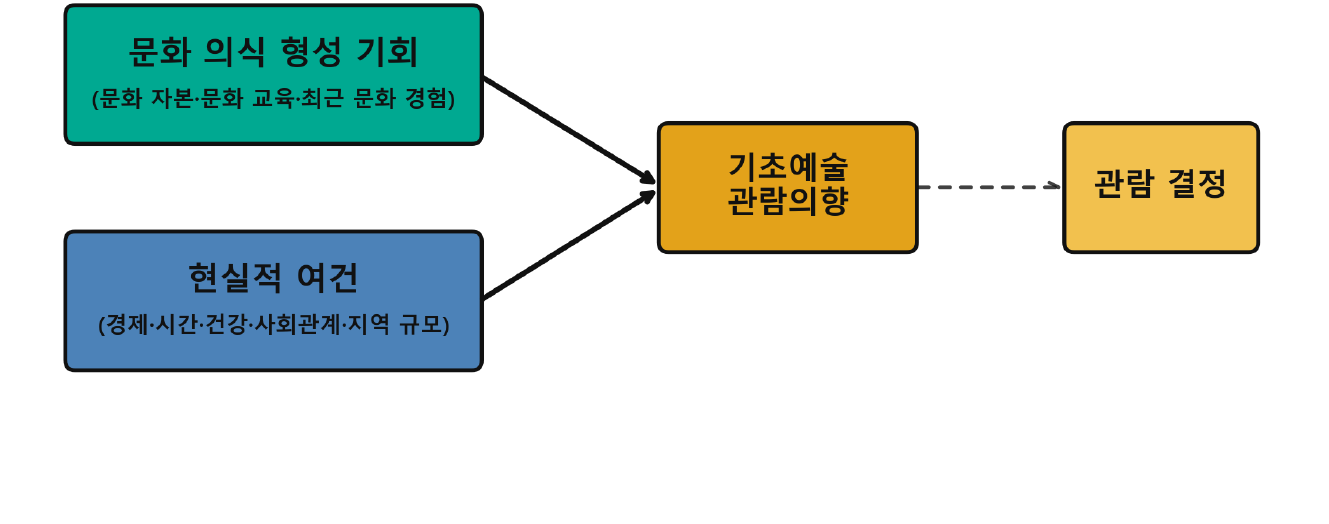
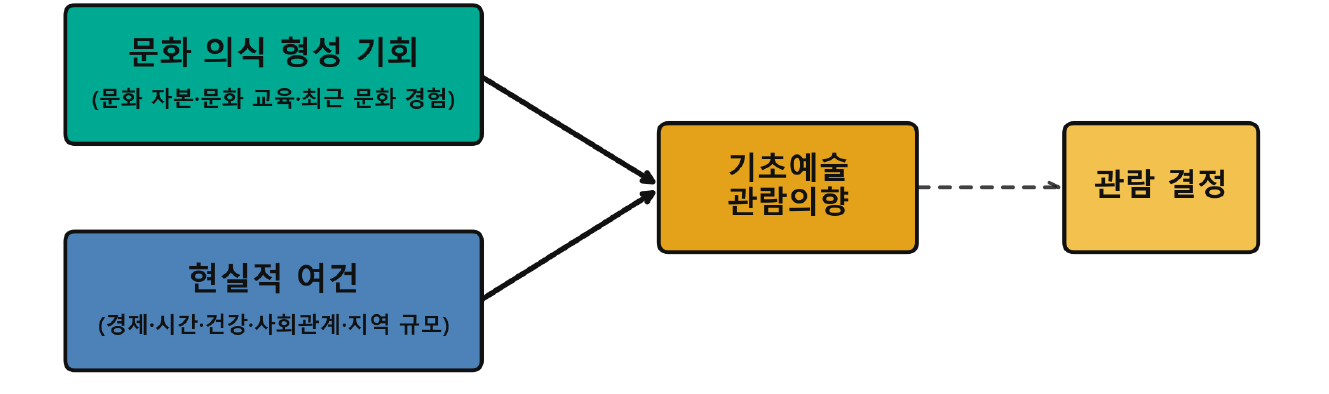
Restore README workflow diagram and resize figures

diff --git a/README.md b/README.md
@@ -16,7 +16,14 @@
 
 ## 분석 과정
 
-**EDA · 문제 원인 분석 → 지역별 고령 인구 추정 → 문화시설 접근성·디지털 이용량 분석 → 지역별 취약 점수 산출 → 취약 지역 권역화 → 정책 대시보드 구현 및 배포**
+```mermaid
+flowchart LR
+    A[이용 현황과 원인 분석] --> B[지역별 고령인구 추정]
+    B --> C[문화시설 접근성 분석]
+    C --> D[정보 접근성과 최종 취약점수]
+    D --> E[취약지역 권역화]
+    E --> F[정책 지도 구현]
+```
 
 - EDA · 문제 원인 분석: 공개용 코드 정리 중
 - 지역별 고령 인구 추정: [`code/02_population_estimation`](code/02_population_estimation/)
@@ -30,7 +37,7 @@
 ## 주요 결과
 
 ### 1. 저소득층의 기초문화예술 이용 저조
-![문화누리카드 분야별 이용 비중과 소득 계층 간 기초예술 관람률](output/image/readme/usage_and_income_experience.png)
+<img src="output/image/readme/usage_and_income_experience.png" alt="문화누리카드 분야별 이용 비중과 소득 계층 간 기초예술 관람률" width="70%">
 
 - 결과1 : 2025년 서울시 이용 비중은 도서 35.1%, 영화 25%인 반면 공연 0.97%, 전시 0.14%였습니다.
 - 결과2 : 소득이 낮은 집단은 그렇지 않은 집단에 비해 최근 기초예술 경험이 약 2배 낮았습니다.
@@ -39,7 +46,7 @@
 <br><br>
 
 ### 2. 넘어서기 힘든 ‘문화자본’의 장벽: 근본적인 관람 동기를 형성
-![소득집단별 관람 의향률과 관람의향자 중 최근 관람률](output/image/readme/intention_and_viewing.png)
+<img src="output/image/readme/intention_and_viewing.png" alt="소득집단별 관람 의향률과 관람의향자 중 최근 관람률" width="70%">
 
 - 결과 1: 저소득 집단과 그 외 소득집단의 ‘향후 기초예술 관람 의향’을 비교 분석한 결과, 저소득 집단은 기초예술에 대한 관람 의향 자체가 상대적으로 부족하다는 것을 확인했습니다. (16.9% vs 33.2%, 약 2배)
 - 결과 2: 반면 의향이 있는 사람 중 최근 관람 비율은 집단 간 차이를 거의 보이지 않았습니다.
@@ -47,7 +54,8 @@
 
 <br><br>
 
-![기초예술 관람의향 분석모형](output/image/readme/intention_model.png)
+<img src="output/image/readme/intention_model.png" alt="기초예술 관람의향 분석모형" width="70%">
+
 - 가설: **소득 집단 간 기초예술 관람 의향 격차는 현실적 여건(시간, 비용, 건강, 접근성)보다 문화 의식 형성 기회(문화 자본·교육·경험) 차이에 의해 더 많이 설명된다 -** 부르디외(Bourdieu, 1986)의 ‘문화자본론’에서 착안
 
 
@@ -55,7 +63,8 @@
 
 <br><br>
 
-![소득집단 간 기초예술 관람의향 격차 기여율](output/image/readme/income_gap_contribution.png)
+<img src="output/image/readme/income_gap_contribution.png" alt="소득집단 간 기초예술 관람의향 격차 기여율" width="70%">
+
 - 분석방법: 국민문화예술활동조사의 응답자료로부터 설명변수와 목표변수를 만들고 로지스틱 회귀모델과 shapely 격차 분해 기법을 사용했습니다.
 - 결과1: 문화 자본과, 최근 문화 경험이 현실적인 여건보다 의향에 더 크게 기여한 것으로 나타났습니다.
 - 결과2: 반면, 집단 간 격차 설명력에서는 문화 자본의 영향력이 늘어난 반면 최근 문화 경험은 축소되었습니다. 이는 최근 문화 경험 유무는 집단 간 차이가 크지 않기 때문입니다.
@@ -64,7 +73,7 @@
 <br><br>
 
 ### 3. 지역별 취약점수 도출
-![서울시 100m 격자별 시설·정보 접근성 및 최종 취약점수 지도](output/image/readme/vulnerability_scores.png)
+<img src="output/image/readme/vulnerability_scores.png" alt="서울시 100m 격자별 시설·정보 접근성 및 최종 취약점수 지도" width="70%">
 
 - 고령인구는 이동과 정보 탐색 능력이 상대적으로 취약합니다. 이는 기초 예술에 대한 접점을 더욱 어렵게 만듭니다.
 - 따라서 시설까지의 이동이 불편하고 정보 역량이 부족한 지역을 찾을 수 있는 지표를 설계했습니다.
@@ -73,7 +82,8 @@
 <br><br>
 
 ### 4. 취약권역
-![서울시 최종 취약점수 상위 20% DBSCAN 권역](output/image/최종취약지수_DBSCAN_상위20_서울권역.png)
+<img src="output/image/최종취약지수_DBSCAN_상위20_서울권역.png" alt="서울시 최종 취약점수 상위 20% DBSCAN 권역" width="70%">
+
 [취약권역 지도 프로토타입 열기](https://jhpark-kor.github.io/sgis-project/)
 
 - DBSCAN 군집 기법으로 취약점수가 높은 인접 격자를 묶어 223개 권역을 도출했습니다.
